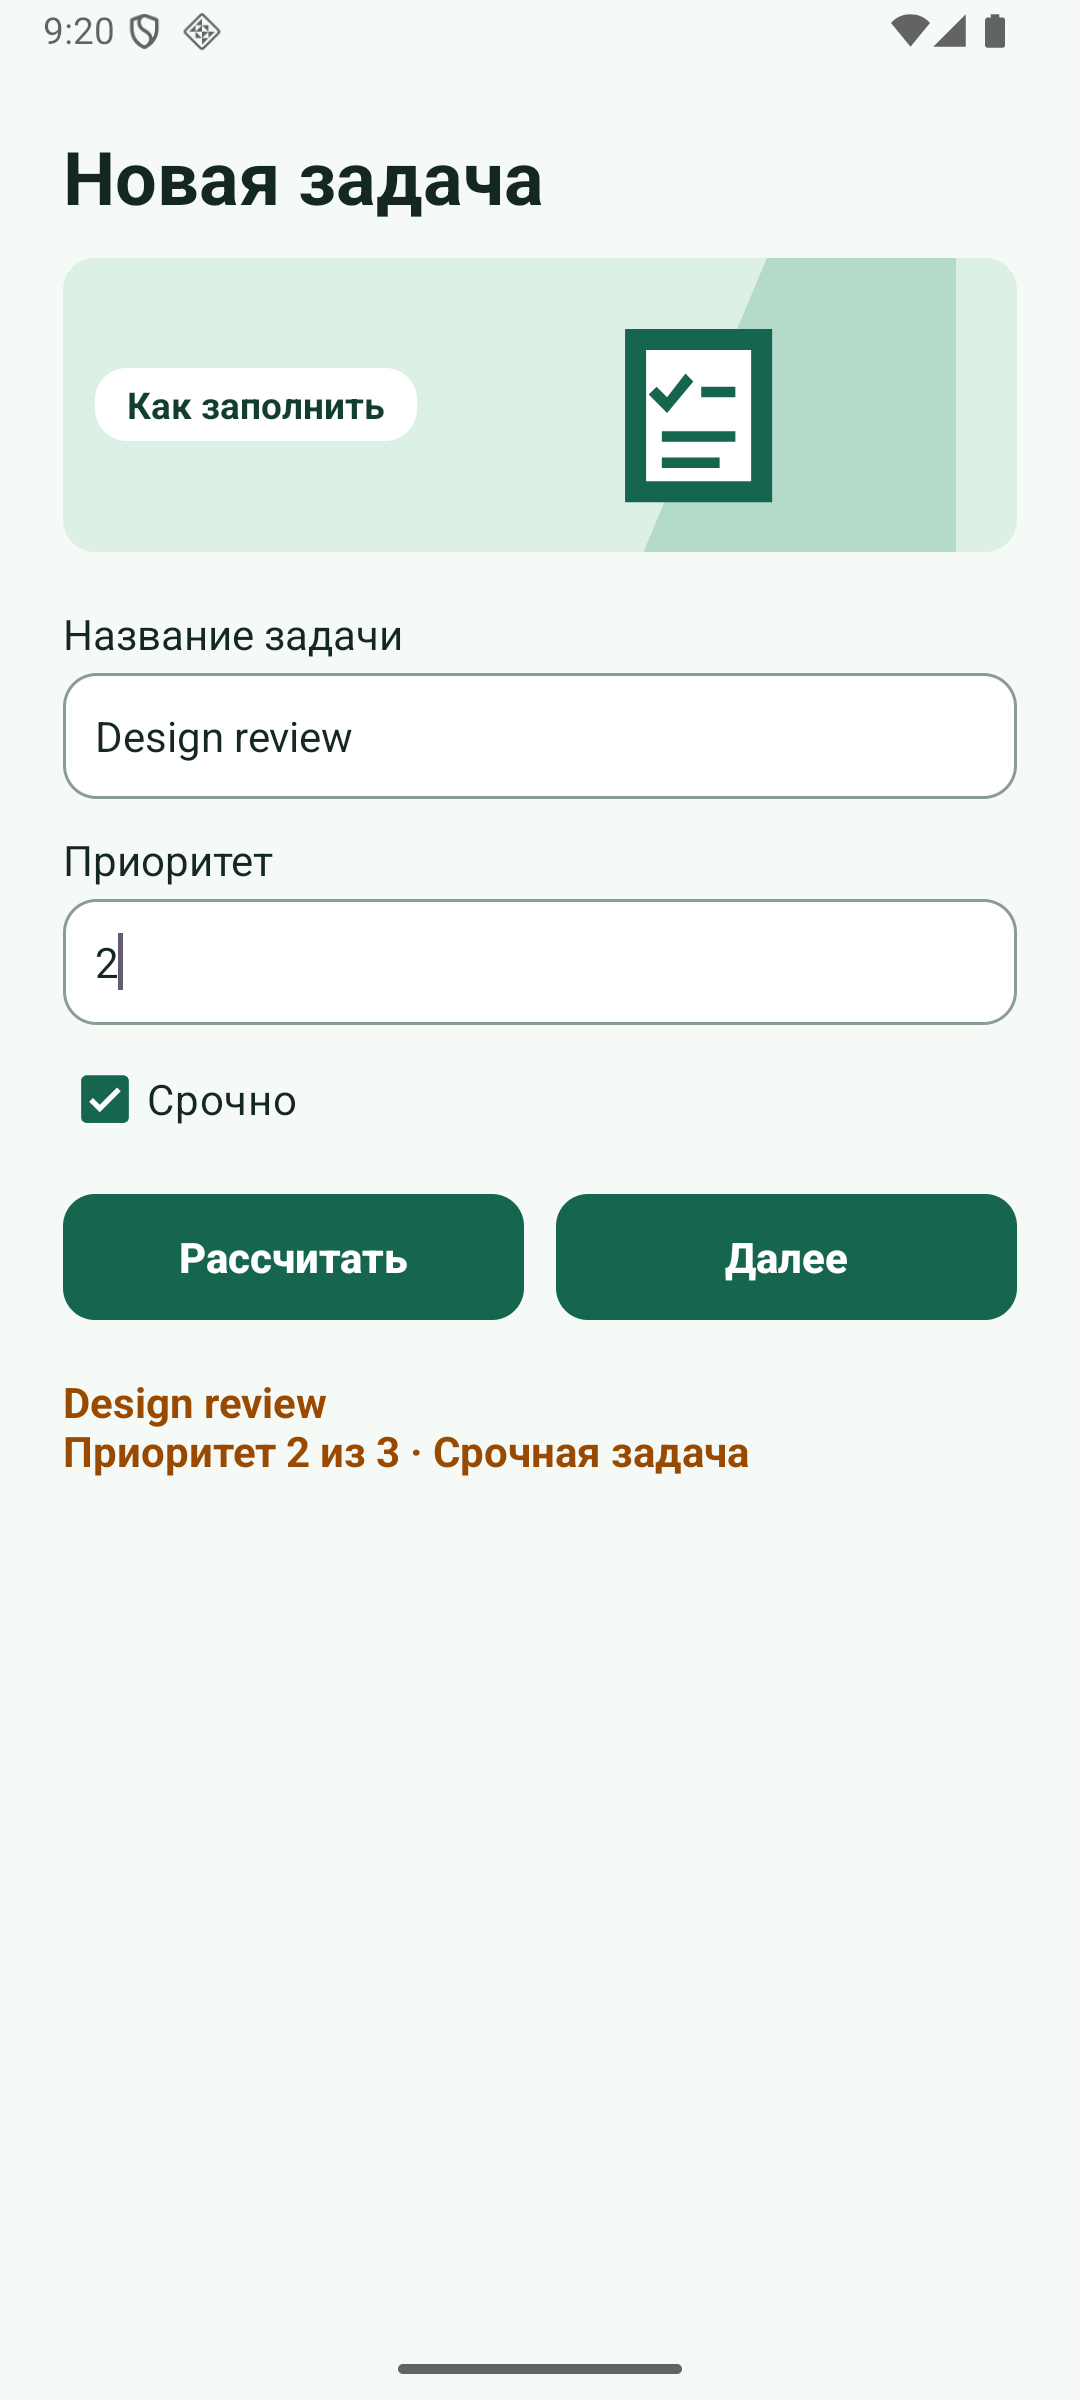
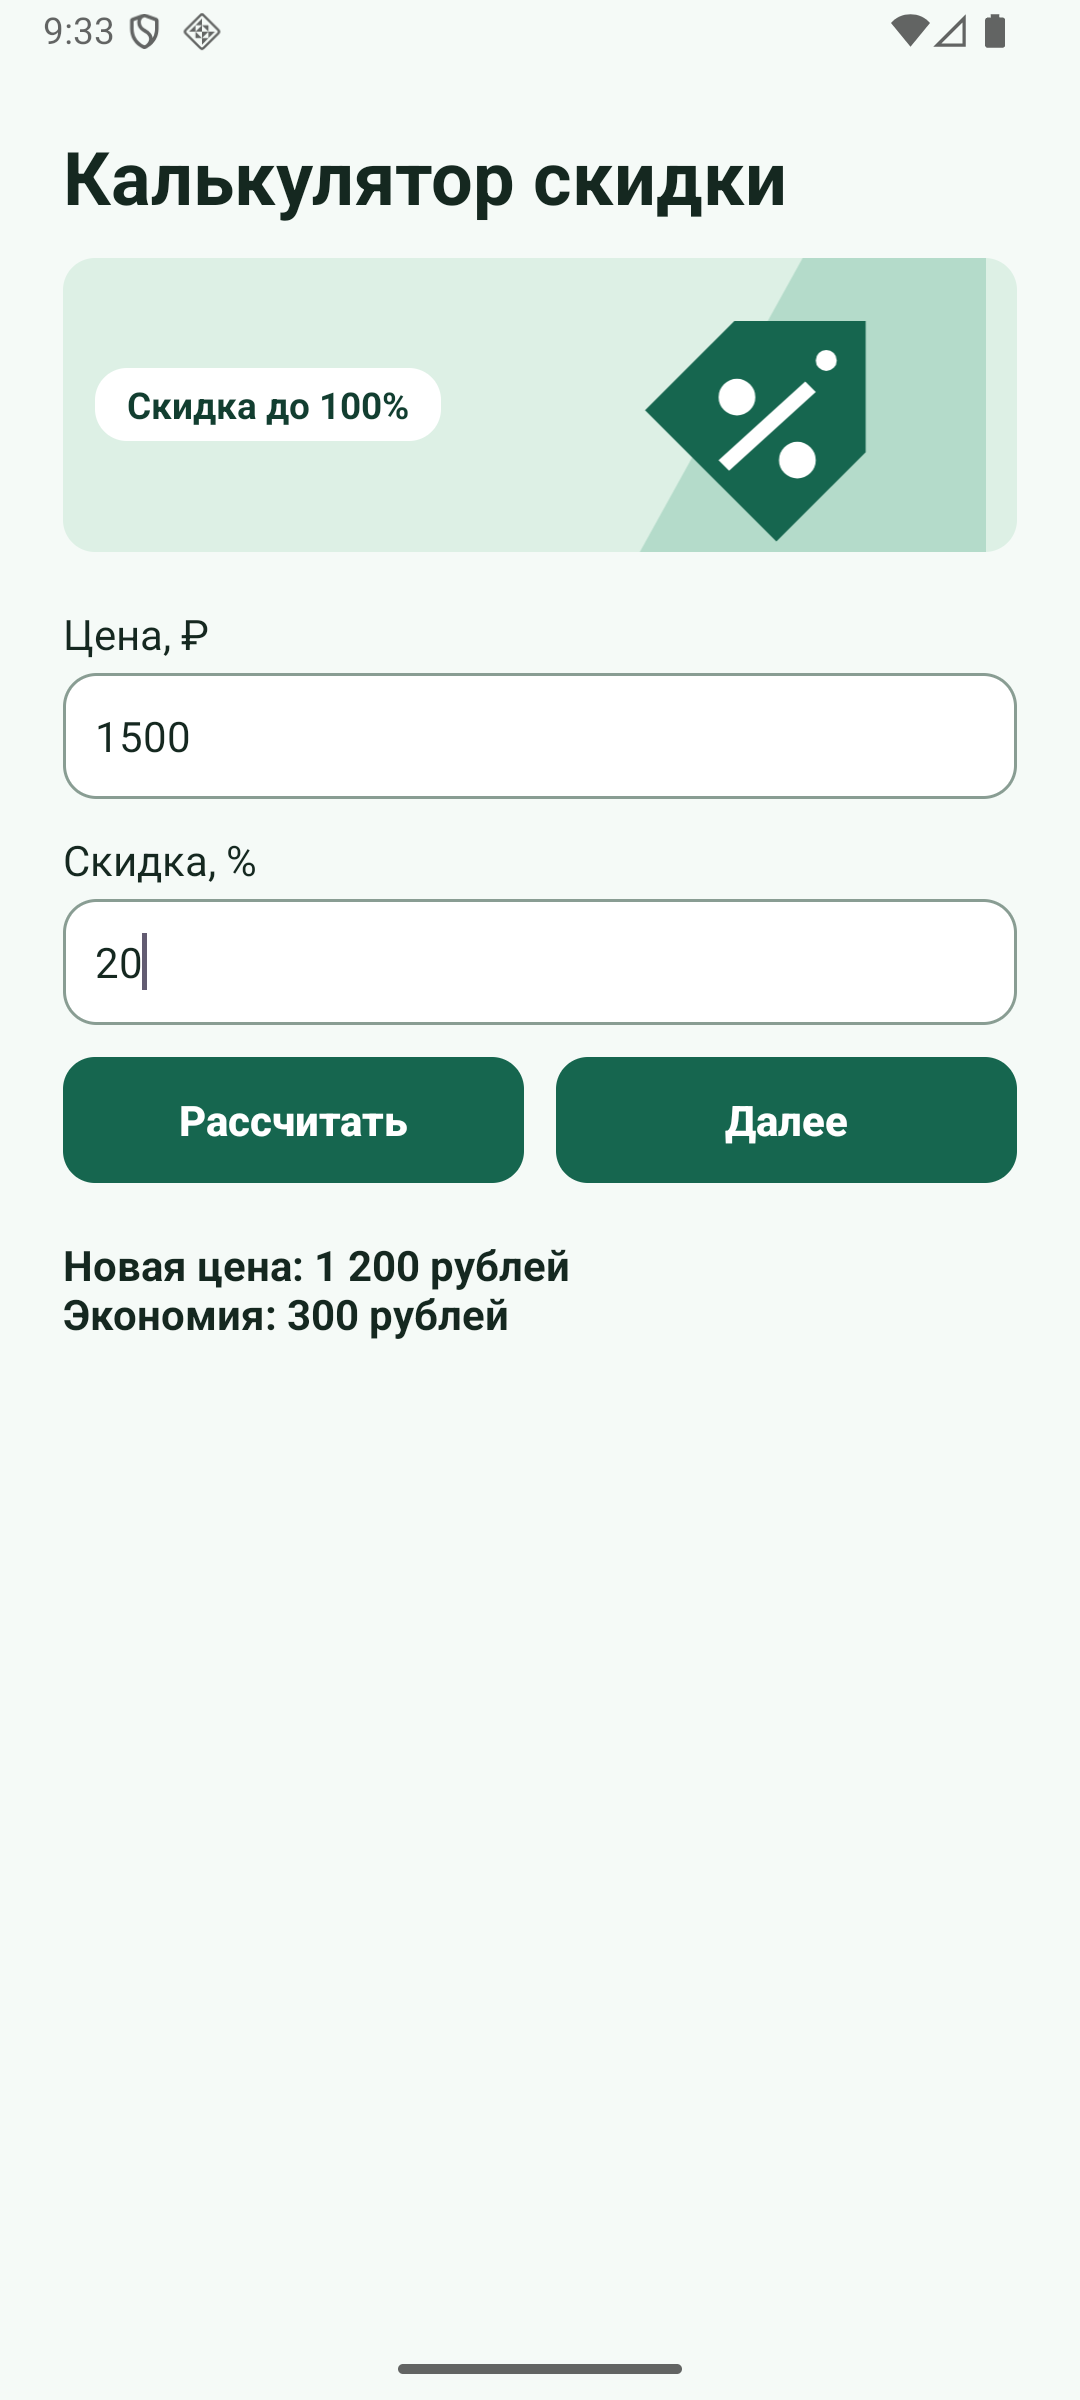
Implement variant 10 discount calculator

diff --git a/app/src/main/java/com/example/praktick6/MainActivity.java b/app/src/main/java/com/example/praktick6/MainActivity.java
@@ -4,7 +4,6 @@ import android.content.Intent;
 import android.os.Bundle;
 import android.view.View;
 import android.view.inputmethod.InputMethodManager;
-import android.widget.CheckBox;
 import android.widget.EditText;
 import android.widget.TextView;
 
@@ -15,16 +14,17 @@ import androidx.core.view.WindowInsetsCompat;
 
 import com.google.android.material.snackbar.Snackbar;
 
+import java.math.BigDecimal;
+import java.math.RoundingMode;
+
 public class MainActivity extends AppCompatActivity {
     private static final String STATE_SUMMARY = "summary";
-    private static final String STATE_PRIORITY = "priority";
+    private static final BigDecimal MAX_DISCOUNT = BigDecimal.valueOf(100);
 
     private View root;
-    private EditText taskName;
-    private EditText priorityInput;
-    private CheckBox urgent;
+    private EditText priceInput;
+    private EditText discountInput;
     private TextView result;
-    private int resultPriority;
 
     @Override
     protected void onCreate(Bundle savedInstanceState) {
@@ -32,20 +32,23 @@ public class MainActivity extends AppCompatActivity {
         setContentView(R.layout.activity_main);
 
         root = findViewById(R.id.main);
-        taskName = findViewById(R.id.et_task_name);
-        priorityInput = findViewById(R.id.et_priority);
-        urgent = findViewById(R.id.cb_urgent);
+        priceInput = findViewById(R.id.et_price);
+        discountInput = findViewById(R.id.et_discount);
         result = findViewById(R.id.tv_result);
         applyInsets(root);
 
-        // Нажатие на иллюстрацию подсказывает, как заполнить форму.
-        findViewById(R.id.iv_task_help).setOnClickListener(view ->
-                Snackbar.make(root, R.string.form_help, Snackbar.LENGTH_LONG).show());
+        // Проверяем поля при потере фокуса и запускаем расчёт по кнопкам.
+        priceInput.setOnFocusChangeListener((view, hasFocus) -> {
+            if (!hasFocus) readAmount(priceInput);
+        });
+        discountInput.setOnFocusChangeListener((view, hasFocus) -> {
+            if (!hasFocus) readAmount(discountInput);
+        });
+        findViewById(R.id.btn_calculate).setOnClickListener(view -> calculate());
+        findViewById(R.id.btn_next).setOnClickListener(view -> openResult());
 
         if (savedInstanceState != null && savedInstanceState.containsKey(STATE_SUMMARY)) {
-            resultPriority = savedInstanceState.getInt(STATE_PRIORITY);
             result.setText(savedInstanceState.getCharSequence(STATE_SUMMARY));
-            result.setTextColor(getColor(priorityColor(resultPriority)));
             result.setVisibility(View.VISIBLE);
         }
     }
@@ -55,77 +58,62 @@ public class MainActivity extends AppCompatActivity {
         super.onSaveInstanceState(outState);
         if (result.getVisibility() == View.VISIBLE) {
             outState.putCharSequence(STATE_SUMMARY, result.getText());
-            outState.putInt(STATE_PRIORITY, resultPriority);
         }
     }
 
-    public void onCalculateClick(View view) {
-        readTask();
-    }
-
-    public void onNextClick(View view) {
-        Task task = readTask();
-        if (task == null) {
+    private void openResult() {
+        Discount result = calculate();
+        if (result == null) {
             return;
         }
 
-        // Явный Intent передаёт три значения экрана результата.
+        // Явный Intent передаёт новую цену и экономию как два значения double.
         Intent intent = new Intent(this, SecondActivity.class);
-        intent.putExtra(SecondActivity.EXTRA_NAME, task.name);
-        intent.putExtra(SecondActivity.EXTRA_PRIORITY, task.priority);
-        intent.putExtra(SecondActivity.EXTRA_URGENT, task.urgent);
+        intent.putExtra(SecondActivity.EXTRA_NEW_PRICE, result.newPrice);
+        intent.putExtra(SecondActivity.EXTRA_SAVINGS, result.savings);
         startActivity(intent);
     }
 
-    // Кнопки используют одну и ту же проверку и расчёт отображаемого результата.
-    private Task readTask() {
-        hideKeyboard();
-        result.setVisibility(View.GONE);
-
-        String name = taskName.getText().toString().trim();
-        if (name.isEmpty()) {
-            showError(taskName, R.string.error_name);
-            return null;
-        }
-
-        int priority;
-        try {
-            priority = Integer.parseInt(priorityInput.getText().toString().trim());
-        } catch (NumberFormatException exception) {
-            showError(priorityInput, R.string.error_priority);
-            return null;
-        }
-        if (priority < 1 || priority > 3) {
-            showError(priorityInput, R.string.error_priority);
-            return null;
-        }
-
-        Task task = new Task(name, priority, urgent.isChecked());
-        resultPriority = task.priority;
-        result.setText(getString(R.string.task_summary, task.name, task.priority,
-                getString(task.urgent ? R.string.urgent_yes : R.string.urgent_no)));
-        result.setTextColor(getColor(priorityColor(task.priority)));
-        result.setVisibility(View.VISIBLE);
-        return task;
-    }
-
-    private void showError(EditText field, int message) {
-        field.requestFocus();
-        field.setError(getString(message));
-        Snackbar.make(root, message, Snackbar.LENGTH_LONG).show();
-    }
-
-    private void hideKeyboard() {
+    // Результат округляется до копеек. Экономия дополняет новую цену до исходной.
+    private Discount calculate() {
         InputMethodManager keyboard = getSystemService(InputMethodManager.class);
         keyboard.hideSoftInputFromWindow(root.getWindowToken(), 0);
+        BigDecimal price = readAmount(priceInput);
+        BigDecimal discount = readAmount(discountInput);
+        if (price == null || discount == null) {
+            result.setVisibility(View.GONE);
+            EditText invalidField = price == null ? priceInput : discountInput;
+            invalidField.requestFocus();
+            Snackbar.make(root, invalidField.getError(), Snackbar.LENGTH_LONG).show();
+            return null;
+        }
+
+        price = price.setScale(2, RoundingMode.HALF_UP);
+        BigDecimal newPrice = price.multiply(BigDecimal.ONE.subtract(discount.movePointLeft(2)))
+                .setScale(2, RoundingMode.HALF_UP);
+        Discount calculation = new Discount(newPrice.doubleValue(),
+                price.subtract(newPrice).doubleValue());
+        result.setText(getString(R.string.discount_summary,
+                MoneyText.format(this, calculation.newPrice),
+                MoneyText.format(this, calculation.savings)));
+        result.setVisibility(View.VISIBLE);
+        return calculation;
     }
 
-    static int priorityColor(int priority) {
-        switch (priority) {
-            case 1: return R.color.priority_low;
-            case 2: return R.color.priority_medium;
-            default: return R.color.priority_high;
+    private BigDecimal readAmount(EditText field) {
+        boolean isDiscount = field == discountInput;
+        String text = field.getText().toString().trim().replace(',', '.');
+        try {
+            BigDecimal amount = new BigDecimal(text);
+            if (amount.signum() >= 0 && (!isDiscount || amount.compareTo(MAX_DISCOUNT) <= 0)) {
+                field.setError(null);
+                return amount;
+            }
+        } catch (NumberFormatException ignored) {
+            // Пустая строка и некорректное число обрабатываются одинаково.
         }
+        field.setError(getString(isDiscount ? R.string.error_discount : R.string.error_price));
+        return null;
     }
 
     // Учитываем системные панели и клавиатуру, чтобы форма оставалась доступной.
@@ -139,15 +127,13 @@ public class MainActivity extends AppCompatActivity {
         });
     }
 
-    private static class Task {
-        private final String name;
-        private final int priority;
-        private final boolean urgent;
+    private static final class Discount {
+        private final double newPrice;
+        private final double savings;
 
-        private Task(String name, int priority, boolean urgent) {
-            this.name = name;
-            this.priority = priority;
-            this.urgent = urgent;
+        private Discount(double newPrice, double savings) {
+            this.newPrice = newPrice;
+            this.savings = savings;
         }
     }
 }

diff --git a/app/src/main/java/com/example/praktick6/SecondActivity.java b/app/src/main/java/com/example/praktick6/SecondActivity.java
@@ -2,15 +2,13 @@ package com.example.praktick6;
 
 import android.content.Intent;
 import android.os.Bundle;
-import android.view.View;
 import android.widget.TextView;
 
 import androidx.appcompat.app.AppCompatActivity;
 
 public class SecondActivity extends AppCompatActivity {
-    static final String EXTRA_NAME = "com.example.praktick6.TASK_NAME";
-    static final String EXTRA_PRIORITY = "com.example.praktick6.TASK_PRIORITY";
-    static final String EXTRA_URGENT = "com.example.praktick6.TASK_URGENT";
+    static final String EXTRA_NEW_PRICE = "com.example.praktick6.NEW_PRICE";
+    static final String EXTRA_SAVINGS = "com.example.praktick6.SAVINGS";
 
     @Override
     protected void onCreate(Bundle savedInstanceState) {
@@ -18,27 +16,19 @@ public class SecondActivity extends AppCompatActivity {
         setContentView(R.layout.activity_second);
         MainActivity.applyInsets(findViewById(R.id.second));
 
-        // Читаем данные карточки из Intent и показываем их в макете.
+        // Читаем суммы из Intent и выводим их в отдельных строках.
         Intent intent = getIntent();
-        String name = intent.getStringExtra(EXTRA_NAME);
-        int priority = intent.getIntExtra(EXTRA_PRIORITY, 0);
-        boolean urgent = intent.getBooleanExtra(EXTRA_URGENT, false);
-        if (name == null || priority < 1 || priority > 3) {
+        double newPrice = intent.getDoubleExtra(EXTRA_NEW_PRICE, Double.NaN);
+        double savings = intent.getDoubleExtra(EXTRA_SAVINGS, Double.NaN);
+        if (!Double.isFinite(newPrice) || !Double.isFinite(savings)) {
             finish();
             return;
         }
 
-        TextView taskName = findViewById(R.id.tv_task_name);
-        TextView taskPriority = findViewById(R.id.tv_task_priority);
-        TextView taskUrgency = findViewById(R.id.tv_task_urgency);
-        taskName.setText(name);
-        taskPriority.setText(getString(R.string.priority_value, priority));
-        taskPriority.setTextColor(getColor(MainActivity.priorityColor(priority)));
-        taskUrgency.setText(urgent ? R.string.urgent_yes : R.string.urgent_no);
-    }
-
-    public void onBackClick(View view) {
-        // Закрываем карточку и возвращаемся к ранее заполненной форме.
-        finish();
+        TextView price = findViewById(R.id.tv_new_price);
+        TextView saving = findViewById(R.id.tv_savings);
+        price.setText(getString(R.string.new_price_value, MoneyText.format(this, newPrice)));
+        saving.setText(getString(R.string.savings_value, MoneyText.format(this, savings)));
+        findViewById(R.id.btn_back).setOnClickListener(view -> finish());
     }
 }

diff --git a/app/src/main/java/com/example/praktick6/MoneyText.java b/app/src/main/java/com/example/praktick6/MoneyText.java
@@ -1,0 +1,31 @@
+package com.example.praktick6;
+
+import android.content.Context;
+import android.content.res.Configuration;
+
+import java.math.BigDecimal;
+import java.text.NumberFormat;
+import java.util.Locale;
+
+final class MoneyText {
+    private static final Locale RUSSIAN = Locale.forLanguageTag("ru-RU");
+
+    private MoneyText() {}
+
+    static String format(Context context, double amount) {
+        NumberFormat formatter = NumberFormat.getNumberInstance(RUSSIAN);
+        formatter.setMaximumFractionDigits(2);
+        String number = formatter.format(amount);
+        BigDecimal rubles = BigDecimal.valueOf(amount).stripTrailingZeros();
+        if (rubles.scale() > 0) {
+            return context.getString(R.string.rubles_fractional, number);
+        }
+
+        // Интерфейс на русском, поэтому и формы слова «рубль» выбираем по русским правилам.
+        Configuration russian = new Configuration(context.getResources().getConfiguration());
+        russian.setLocale(RUSSIAN);
+        int quantity = rubles.remainder(BigDecimal.valueOf(100)).intValueExact();
+        return context.createConfigurationContext(russian).getResources()
+                .getQuantityString(R.plurals.rubles, quantity, number);
+    }
+}

diff --git a/README.md b/README.md
@@ -1,6 +1,6 @@
 # Практическая работа № 6
 
-Вариант 30 «Карточка задачи». Приложение на Java с двумя XML-экранами.
+Вариант 10 «Калькулятор скидки». Приложение на Java с двумя XML-экранами.
 
 ## Запуск
 
@@ -12,15 +12,17 @@ bash ./gradlew :app:assembleDebug
 
 ## Как проверить
 
-1. Нажмите на иллюстрацию «Как заполнить». Появится подсказка.
-2. Нажмите «Рассчитать» с пустым названием или укажите приоритет за пределами 1–3. Ошибка отображается в Snackbar.
-3. Введите название, приоритет от 1 до 3 и отметьте «Срочно». «Рассчитать» покажет результат на форме. Приоритет 1 выделяется зелёным, 2 — оранжевым, 3 — красным.
-4. Нажмите «Далее». Убедитесь, что на карточке совпадают название, приоритет и срочность.
-5. Нажмите «Назад» на экране карточки. Введённые данные сохранятся в форме.
+1. Введите цену 1500 и скидку 20. «Рассчитать» покажет новую цену 1200 рублей и экономию 300 рублей.
+2. Проверьте скидки 0% и 100%. При 0% экономия равна нулю, при 100% новая цена равна нулю.
+3. Введите скидку больше 100% и переключите фокус на другое поле. Рядом с полем скидки появится ошибка. При нажатии «Рассчитать» она также появится в Snackbar.
+4. Нажмите «Далее» с корректными данными. На втором экране будут те же суммы.
+5. Нажмите «Назад». Введённые значения сохранятся в форме.
+
+Цена может быть нулевой, процент скидки — дробным. В десятичных числах принимаются запятая и точка. Денежные суммы округляются до копеек.
 
 ## Скриншоты
 
-Эмулятор Android API 36. [Форма с результатом](docs/form.png) и [карточка задачи](docs/card.png).
+Эмулятор Android API 36. [Форма с расчётом](docs/form.png) и [экран результата](docs/result.png).
 
 ## Ответы на контрольные вопросы
 
